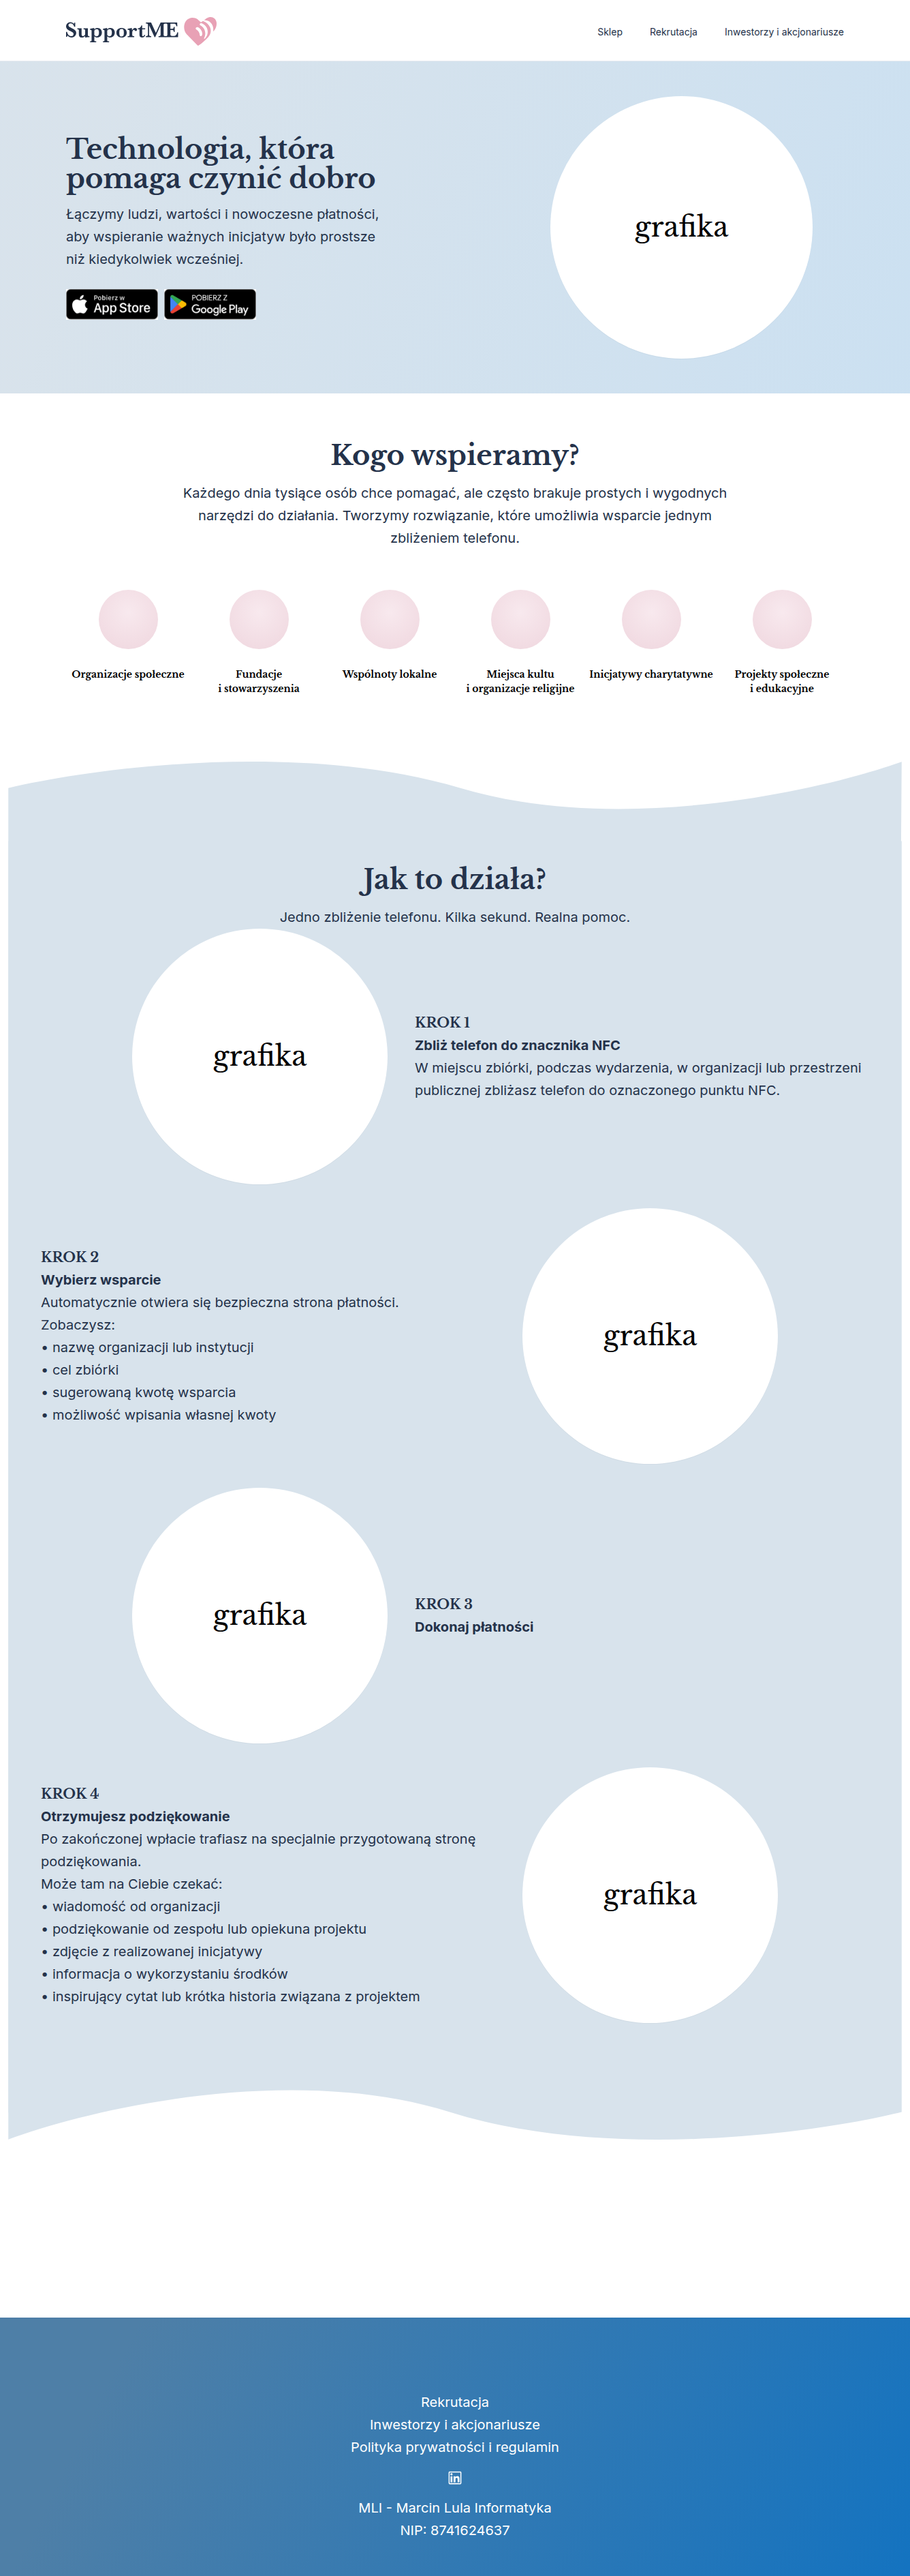
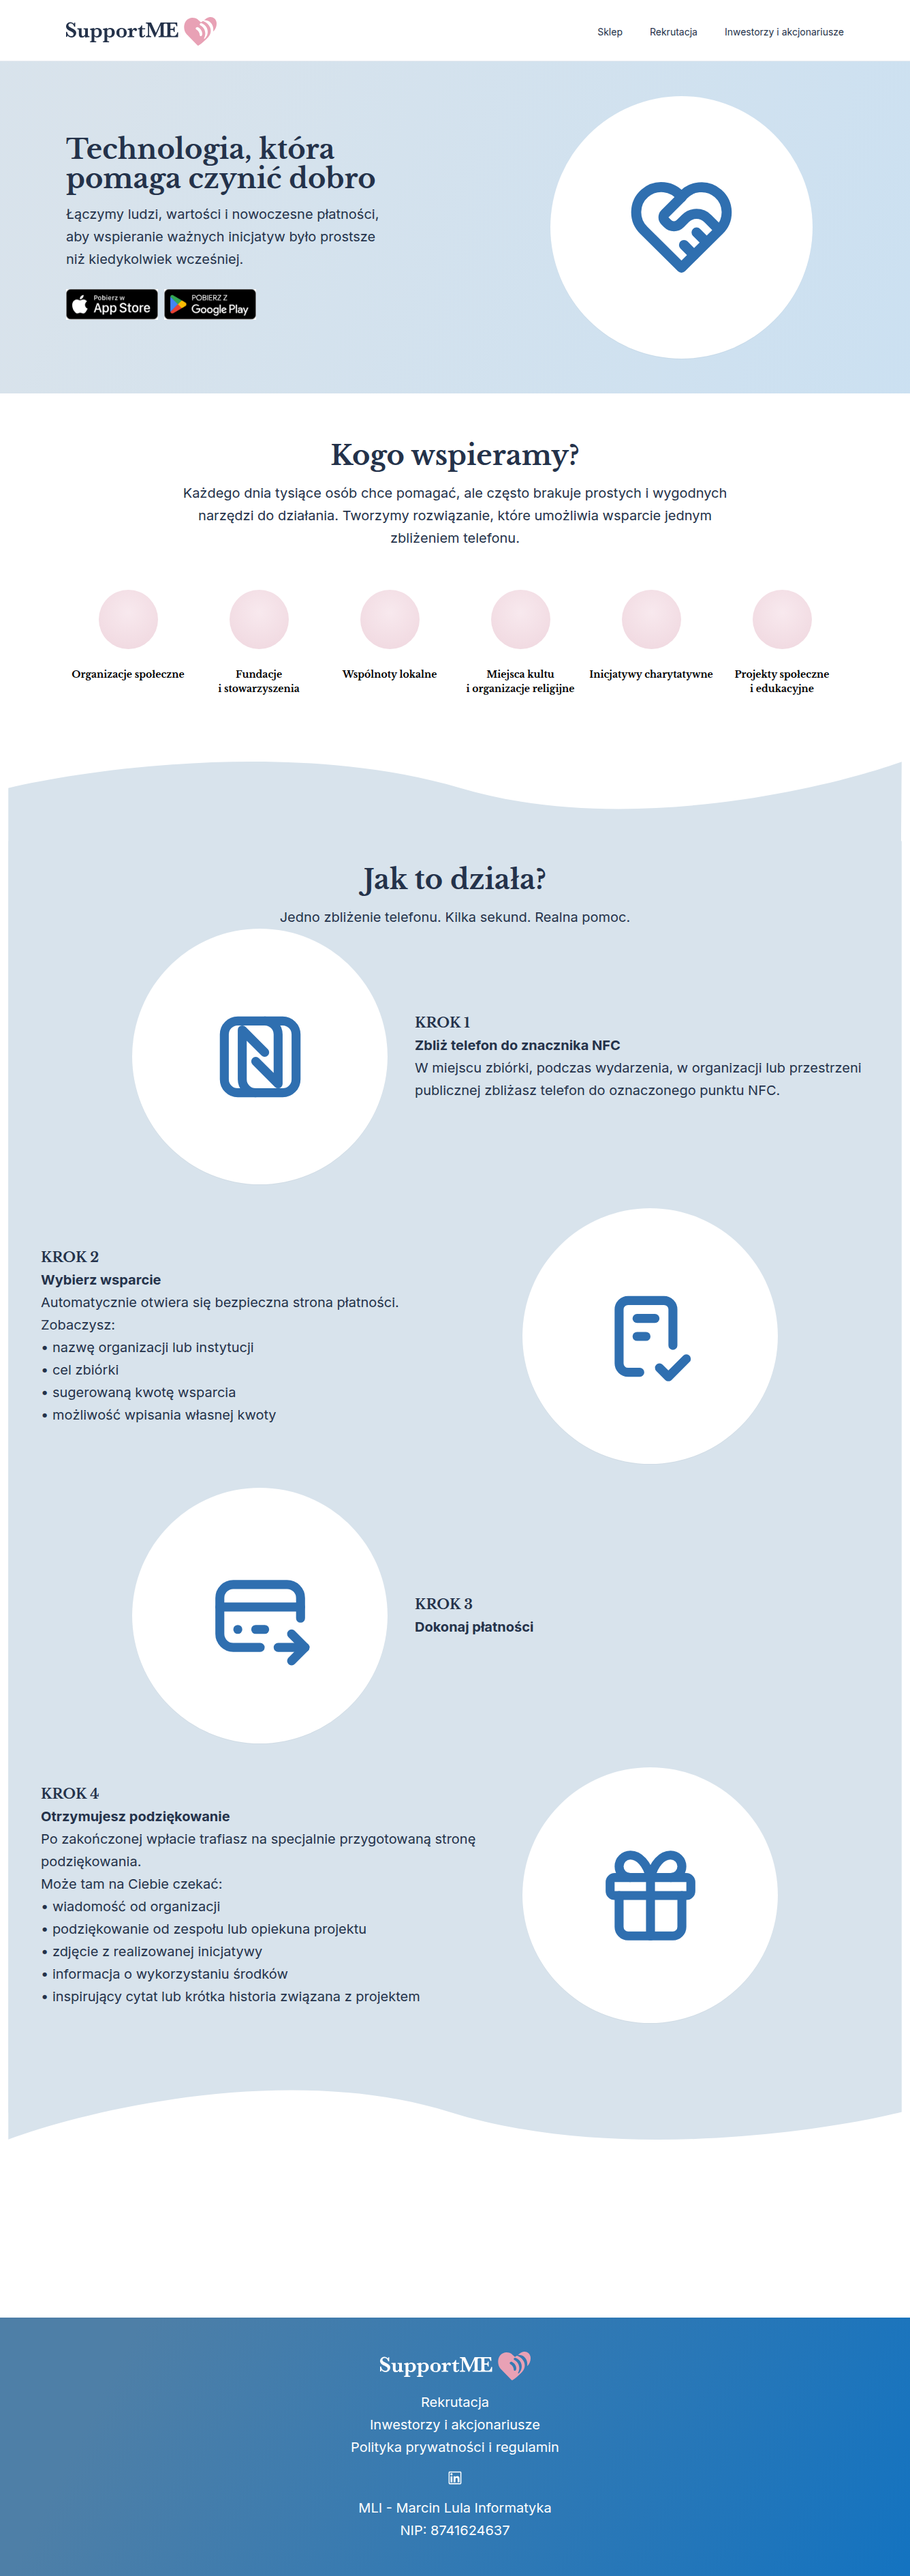
Placeholdery grafik w kółkach + rozbudowa strony porównawczej
- kółka „grafika" wypełnione tematycznymi ikonami marki (Tabler, brand blue):
  hero=heart-handshake, KROK1=nfc, KROK2=checklist, KROK3=card, KROK4=gift
- screen.html: data-driven, ekrany Home + Kategoria w wersji desktop i mobile,
  tryb obok-siebie + nakładka z suwakiem krycia
- odświeżone screeny porównawcze (footer logo, placeholdery)

diff --git a/public/screen.html b/public/screen.html
@@ -8,135 +8,112 @@
   :root{ --bg:#0e1726; --panel:#16223a; --ink:#e8eef7; --muted:#9fb0c8; --accent:#3a9bff; --line:#26344f; }
   *{ box-sizing:border-box; }
   body{ margin:0; background:var(--bg); color:var(--ink); font-family:Inter,system-ui,-apple-system,'Segoe UI',sans-serif; }
-  header{ padding:22px 28px; border-bottom:1px solid var(--line); position:sticky; top:0; background:rgba(14,23,38,.92); backdrop-filter:blur(8px); z-index:20; }
+  header{ padding:22px 28px; border-bottom:1px solid var(--line); position:sticky; top:0; background:rgba(14,23,38,.93); backdrop-filter:blur(8px); z-index:30; }
   h1{ margin:0 0 4px; font-size:20px; }
   .sub{ color:var(--muted); font-size:13px; }
-  .wrap{ max-width:1500px; margin:0 auto; padding:24px 28px 80px; }
-  .tabs{ display:flex; gap:8px; margin:18px 0 4px; flex-wrap:wrap; }
+  .wrap{ max-width:1560px; margin:0 auto; padding:22px 28px 90px; }
+  .tabs{ display:flex; gap:8px; margin:8px 0 4px; flex-wrap:wrap; }
   .tab{ background:var(--panel); border:1px solid var(--line); color:var(--ink); padding:9px 16px; border-radius:999px; cursor:pointer; font-size:14px; }
   .tab.active{ background:var(--accent); border-color:var(--accent); color:#021223; font-weight:600; }
-  .view{ display:none; }
-  .view.active{ display:block; }
-  .toolbar{ display:flex; align-items:center; gap:18px; margin:18px 0; flex-wrap:wrap; }
+  .screen{ display:none; }
+  .screen.active{ display:block; }
+  .block{ margin-top:30px; }
+  .block h2{ font-size:15px; letter-spacing:.04em; text-transform:uppercase; color:var(--muted); margin:0 0 6px; }
+  .toolbar{ display:flex; align-items:center; gap:16px; margin:10px 0 16px; flex-wrap:wrap; }
   .seg{ display:flex; background:var(--panel); border:1px solid var(--line); border-radius:10px; overflow:hidden; }
   .seg button{ background:transparent; border:0; color:var(--ink); padding:8px 14px; cursor:pointer; font-size:13px; }
   .seg button.active{ background:var(--accent); color:#021223; font-weight:600; }
-  .meta{ color:var(--muted); font-size:12.5px; }
   label.slider{ display:flex; align-items:center; gap:10px; color:var(--muted); font-size:13px; }
   input[type=range]{ width:200px; }
+  .legend{ margin-left:auto; color:var(--muted); font-size:12.5px; }
+  .legend b{ color:var(--ink); }
+  .note{ color:var(--muted); font-size:12.5px; margin:0 0 8px; }
 
-  /* side by side */
   .side{ display:grid; grid-template-columns:1fr 1fr; gap:18px; align-items:start; }
+  .side.mobile{ grid-template-columns:1fr 1fr; max-width:980px; }
   .col{ background:var(--panel); border:1px solid var(--line); border-radius:14px; overflow:hidden; }
-  .col h3{ margin:0; padding:11px 16px; font-size:13px; letter-spacing:.04em; text-transform:uppercase; color:var(--muted); border-bottom:1px solid var(--line); display:flex; justify-content:space-between; }
+  .col h3{ margin:0; padding:11px 16px; font-size:12.5px; letter-spacing:.04em; text-transform:uppercase; color:var(--muted); border-bottom:1px solid var(--line); display:flex; justify-content:space-between; }
   .col h3 .tag{ color:var(--accent); }
   .col img{ display:block; width:100%; height:auto; }
 
-  /* overlay */
-  .overlay{ position:relative; background:var(--panel); border:1px solid var(--line); border-radius:14px; overflow:hidden; max-width:var(--ow,1336px); margin:0 auto; }
+  .overlay{ position:relative; background:var(--panel); border:1px solid var(--line); border-radius:14px; overflow:hidden; margin:0 auto; }
   .overlay img{ display:block; width:100%; height:auto; }
   .overlay .top{ position:absolute; inset:0; }
-  .overlay .top img{ width:100%; }
-  .hint{ color:var(--muted); font-size:12.5px; margin-top:10px; line-height:1.5; }
-  .legend{ display:flex; gap:16px; margin-left:auto; color:var(--muted); font-size:12.5px; }
-  .legend b{ color:var(--ink); }
+  .single{ max-width:760px; }
+  .single.m{ max-width:430px; }
 </style>
 </head>
 <body>
 <header>
   <h1>Porównanie 1:1 — Figma ↔ please-support-me.com</h1>
-  <div class="sub">Strona główna SupportME. Lewa / spód = projekt Figma · Prawa / wierzch = wersja live. Wygenerowano z Figma MCP + Playwright.</div>
+  <div class="sub">Lewa/spód = projekt Figma · Prawa/wierzch = wersja live. Każdy ekran w wersji desktop i mobile. Wygenerowano z Figma MCP + Playwright.</div>
+  <div class="tabs" id="tabs"></div>
 </header>
-
-<div class="wrap">
-  <div class="tabs">
-    <button class="tab active" data-view="desktop">🖥 Desktop (1336&nbsp;px)</button>
-    <button class="tab" data-view="mobile">📱 Mobile (402&nbsp;px)</button>
-  </div>
-
-  <!-- DESKTOP -->
-  <section class="view active" id="desktop">
-    <div class="toolbar">
-      <div class="seg" data-mode-for="desktop">
-        <button class="active" data-mode="side">Obok siebie</button>
-        <button data-mode="overlay">Nakładka</button>
-      </div>
-      <label class="slider" data-only="overlay" hidden>Krycie live
-        <input type="range" min="0" max="100" value="55" data-opacity="desktop">
-        <span data-opval="desktop">55%</span>
-      </label>
-      <div class="legend"><span>Figma: <b>1336×3815</b></span><span>Live: <b>1336×3408</b></span></div>
-    </div>
-
-    <div class="side" data-side="desktop">
-      <div class="col"><h3>Figma <span class="tag">projekt</span></h3><img src="/img/compare/figma-desktop.png" alt="Figma desktop"></div>
-      <div class="col"><h3>Live <span class="tag">please-support-me.com</span></h3><img src="/img/compare/live-desktop.png" alt="Live desktop"></div>
-    </div>
-
-    <div class="overlay" data-overlay="desktop" style="--ow:1336px; display:none;">
-      <img src="/img/compare/figma-desktop.png" alt="Figma desktop base">
-      <div class="top"><img src="/img/compare/live-desktop.png" alt="Live desktop top" style="opacity:.55"></div>
-    </div>
-    <div class="hint">Wskazówka: w trybie „Nakładka" suwak zmienia krycie warstwy live nałożonej na Figmę (wyrównane do lewej‑góry, ta sama szerokość). Różnice w wysokości wynikają z rytmu pionowego — dociągany do 1:1.</div>
-  </section>
-
-  <!-- MOBILE -->
-  <section class="view" id="mobile">
-    <div class="toolbar">
-      <div class="seg" data-mode-for="mobile">
-        <button class="active" data-mode="side">Obok siebie</button>
-        <button data-mode="overlay">Nakładka</button>
-      </div>
-      <label class="slider" data-only="overlay" hidden>Krycie live
-        <input type="range" min="0" max="100" value="55" data-opacity="mobile">
-        <span data-opval="mobile">55%</span>
-      </label>
-      <div class="legend"><span>Figma: <b>402×5754</b></span><span>Live: <b>402×4646</b></span></div>
-    </div>
-
-    <div class="side" data-side="mobile">
-      <div class="col"><h3>Figma <span class="tag">projekt</span></h3><img src="/img/compare/figma-mobile.png" alt="Figma mobile"></div>
-      <div class="col"><h3>Live <span class="tag">please-support-me.com</span></h3><img src="/img/compare/live-mobile.png" alt="Live mobile"></div>
-    </div>
-
-    <div class="overlay" data-overlay="mobile" style="--ow:402px; display:none;">
-      <img src="/img/compare/figma-mobile.png" alt="Figma mobile base">
-      <div class="top"><img src="/img/compare/live-mobile.png" alt="Live mobile top" style="opacity:.55"></div>
-    </div>
-    <div class="hint">Mobile Figma wyeksportowane proporcjonalnie (skala MCP). Układ live: jedna kolumna, kroki ułożone pionowo.</div>
-  </section>
-</div>
+<div class="wrap" id="wrap"></div>
 
 <script>
-  // tab switching
-  document.querySelectorAll('.tab').forEach(t=>t.onclick=()=>{
-    document.querySelectorAll('.tab').forEach(x=>x.classList.remove('active'));
-    document.querySelectorAll('.view').forEach(x=>x.classList.remove('active'));
-    t.classList.add('active');
-    document.getElementById(t.dataset.view).classList.add('active');
+const SCREENS = [
+  {
+    id:'home', label:'🏠 Strona główna',
+    desktop:{ figma:'/img/compare/figma-desktop.png', live:'/img/compare/live-desktop.png', fdim:'1336×3815', ldim:'1336×3778' },
+    mobile:{ figma:'/img/compare/figma-mobile.png', live:'/img/compare/live-mobile.png', fdim:'402×5754', ldim:'402×…' },
+  },
+  {
+    id:'cat', label:'📂 Kategoria (parafie)',
+    note:'Brak osobnej ramki w Figmie — zaprojektowane spójnie z systemem marki. Klik kafelka „Kogo wspieramy?" → lista parafii.',
+    desktop:{ live:'/img/compare/cat-desktop.png', ldim:'1336×…' },
+    mobile:{ live:'/img/compare/cat-mobile.png', ldim:'402×…' },
+  },
+];
+
+function colHTML(side){
+  let h='';
+  if(side.figma) h+=`<div class="col"><h3>Figma <span class="tag">projekt</span></h3><img src="${side.figma}" loading="lazy"></div>`;
+  h+=`<div class="col"><h3>Live <span class="tag">please-support-me.com</span></h3><img src="${side.live}" loading="lazy"></div>`;
+  return h;
+}
+function blockHTML(title, side, isMobile){
+  if(!side || !side.live) return '';
+  const hasFigma = !!side.figma;
+  const legend = `<div class="legend">${side.fdim?`Figma <b>${side.fdim}</b> · `:''}Live <b>${side.ldim||''}</b></div>`;
+  const tools = hasFigma ? `
+    <div class="toolbar">
+      <div class="seg"><button class="active" data-m="side">Obok siebie</button><button data-m="overlay">Nakładka</button></div>
+      <label class="slider" data-only="overlay" hidden>Krycie live <input type="range" min="0" max="100" value="55"><span class="ov">55%</span></label>
+      ${legend}
+    </div>` : `<div class="toolbar">${legend}</div>`;
+  const side_div = `<div class="side ${isMobile?'mobile':''}" data-side>${colHTML(side)}</div>`;
+  const overlay_div = hasFigma ? `<div class="overlay ${isMobile?'single m':'single'}" data-overlay style="display:none">
+      <img src="${side.figma}"><div class="top"><img src="${side.live}" style="opacity:.55"></div></div>` : '';
+  return `<div class="block"><h2>${title}</h2>${tools}${side_div}${overlay_div}</div>`;
+}
+
+const tabs=document.getElementById('tabs'), wrap=document.getElementById('wrap');
+SCREENS.forEach((s,i)=>{
+  const t=document.createElement('button'); t.className='tab'+(i?'':' active'); t.textContent=s.label;
+  t.onclick=()=>{ document.querySelectorAll('.tab').forEach(x=>x.classList.remove('active'));
+    document.querySelectorAll('.screen').forEach(x=>x.classList.remove('active'));
+    t.classList.add('active'); document.getElementById('sc-'+s.id).classList.add('active'); };
+  tabs.appendChild(t);
+  const sec=document.createElement('section'); sec.className='screen'+(i?'':' active'); sec.id='sc-'+s.id;
+  sec.innerHTML = (s.note?`<p class="note">ℹ ${s.note}</p>`:'')
+    + blockHTML('Desktop', s.desktop, false)
+    + blockHTML('Mobile', s.mobile, true);
+  wrap.appendChild(sec);
+});
+
+// wire mode toggles + opacity (per block)
+document.querySelectorAll('.block').forEach(b=>{
+  const seg=b.querySelector('.seg'); if(!seg) return;
+  const side=b.querySelector('[data-side]'), ov=b.querySelector('[data-overlay]'), lbl=b.querySelector('label[data-only]');
+  seg.querySelectorAll('button').forEach(btn=>btn.onclick=()=>{
+    seg.querySelectorAll('button').forEach(x=>x.classList.remove('active')); btn.classList.add('active');
+    const m=btn.dataset.m; side.style.display=m==='side'?'grid':'none'; ov.style.display=m==='overlay'?'block':'none';
+    if(lbl) lbl.hidden=m!=='overlay';
   });
-  // mode (side/overlay) per view
-  document.querySelectorAll('.seg[data-mode-for]').forEach(seg=>{
-    const view=seg.dataset.modeFor;
-    seg.querySelectorAll('button').forEach(b=>b.onclick=()=>{
-      seg.querySelectorAll('button').forEach(x=>x.classList.remove('active'));
-      b.classList.add('active');
-      const mode=b.dataset.mode;
-      document.querySelector('[data-side="'+view+'"]').style.display = mode==='side'?'grid':'none';
-      document.querySelector('[data-overlay="'+view+'"]').style.display = mode==='overlay'?'block':'none';
-      const lbl=document.querySelector('#'+view+' label[data-only="overlay"]');
-      if(lbl) lbl.hidden = mode!=='overlay';
-    });
-  });
-  // opacity sliders
-  document.querySelectorAll('input[data-opacity]').forEach(r=>{
-    const view=r.dataset.opacity;
-    r.oninput=()=>{
-      const v=r.value;
-      document.querySelector('[data-overlay="'+view+'"] .top img').style.opacity = v/100;
-      document.querySelector('[data-opval="'+view+'"]').textContent = v+'%';
-    };
-  });
+  const r=b.querySelector('input[type=range]');
+  if(r) r.oninput=()=>{ ov.querySelector('.top img').style.opacity=r.value/100; b.querySelector('.ov').textContent=r.value+'%'; };
+});
 </script>
 </body>
 </html>

diff --git a/public/css/landing.css b/public/css/landing.css
@@ -76,6 +76,13 @@ img{ display:block; max-width:100%; }
 }
 .lp-circle--hero{ width:385px; height:385px; font-size:40px; }
 
+/* placeholdery grafik w kółkach (tymczasowe, ikony Tabler w kolorze marki) */
+.lp-circle--ghero{ background:#fff url('/img/landing/ph/ghero.svg') center/46% no-repeat; }
+.lp-circle--g1{ background:#fff url('/img/landing/ph/g1.svg') center/42% no-repeat; }
+.lp-circle--g2{ background:#fff url('/img/landing/ph/g2.svg') center/42% no-repeat; }
+.lp-circle--g3{ background:#fff url('/img/landing/ph/g3.svg') center/42% no-repeat; }
+.lp-circle--g4{ background:#fff url('/img/landing/ph/g4.svg') center/42% no-repeat; }
+
 /* ---------- KOGO WSPIERAMY ---------- */
 .lp-section{ position:relative; z-index:2; }
 .lp-support{ padding-top:68px; }

diff --git a/resources/views/storefront/church/shop/home.blade.php b/resources/views/storefront/church/shop/home.blade.php
@@ -13,7 +13,7 @@
                 </div>
             </div>
             <div class="lp-hero__art">
-                <div class="lp-circle lp-circle--hero">grafika</div>
+                <div class="lp-circle lp-circle--hero lp-circle--ghero" aria-hidden="true"></div>
             </div>
         </div>
     </section>
@@ -44,7 +44,7 @@
         <div class="lp-steps">
             {{-- KROK 1 — grafika z lewej --}}
             <div class="lp-step">
-                <div class="lp-step__art"><div class="lp-circle lp-circle--step">grafika</div></div>
+                <div class="lp-step__art"><div class="lp-circle lp-circle--step lp-circle--g1" aria-hidden="true"></div></div>
                 <div class="lp-step__body">
                     <p class="lp-step__num">KROK 1</p>
                     <p><b>Zbliż telefon do znacznika NFC</b><br>W miejscu zbiórki, podczas wydarzenia, w organizacji lub przestrzeni publicznej zbliżasz telefon do oznaczonego punktu NFC.</p>
@@ -53,7 +53,7 @@
 
             {{-- KROK 2 — grafika z prawej --}}
             <div class="lp-step lp-step--rev">
-                <div class="lp-step__art"><div class="lp-circle lp-circle--step">grafika</div></div>
+                <div class="lp-step__art"><div class="lp-circle lp-circle--step lp-circle--g2" aria-hidden="true"></div></div>
                 <div class="lp-step__body">
                     <p class="lp-step__num">KROK 2</p>
                     <p><b>Wybierz wsparcie</b><br>Automatycznie otwiera się bezpieczna strona płatności.</p>
@@ -63,7 +63,7 @@
 
             {{-- KROK 3 — grafika z lewej --}}
             <div class="lp-step">
-                <div class="lp-step__art"><div class="lp-circle lp-circle--step">grafika</div></div>
+                <div class="lp-step__art"><div class="lp-circle lp-circle--step lp-circle--g3" aria-hidden="true"></div></div>
                 <div class="lp-step__body">
                     <p class="lp-step__num">KROK 3</p>
                     <p><b>Dokonaj płatności</b></p>
@@ -72,7 +72,7 @@
 
             {{-- KROK 4 — grafika z prawej --}}
             <div class="lp-step lp-step--rev">
-                <div class="lp-step__art"><div class="lp-circle lp-circle--step">grafika</div></div>
+                <div class="lp-step__art"><div class="lp-circle lp-circle--step lp-circle--g4" aria-hidden="true"></div></div>
                 <div class="lp-step__body">
                     <p class="lp-step__num">KROK 4</p>
                     <p><b>Otrzymujesz podziękowanie</b><br>Po zakończonej wpłacie trafiasz na specjalnie przygotowaną stronę podziękowania.</p>
